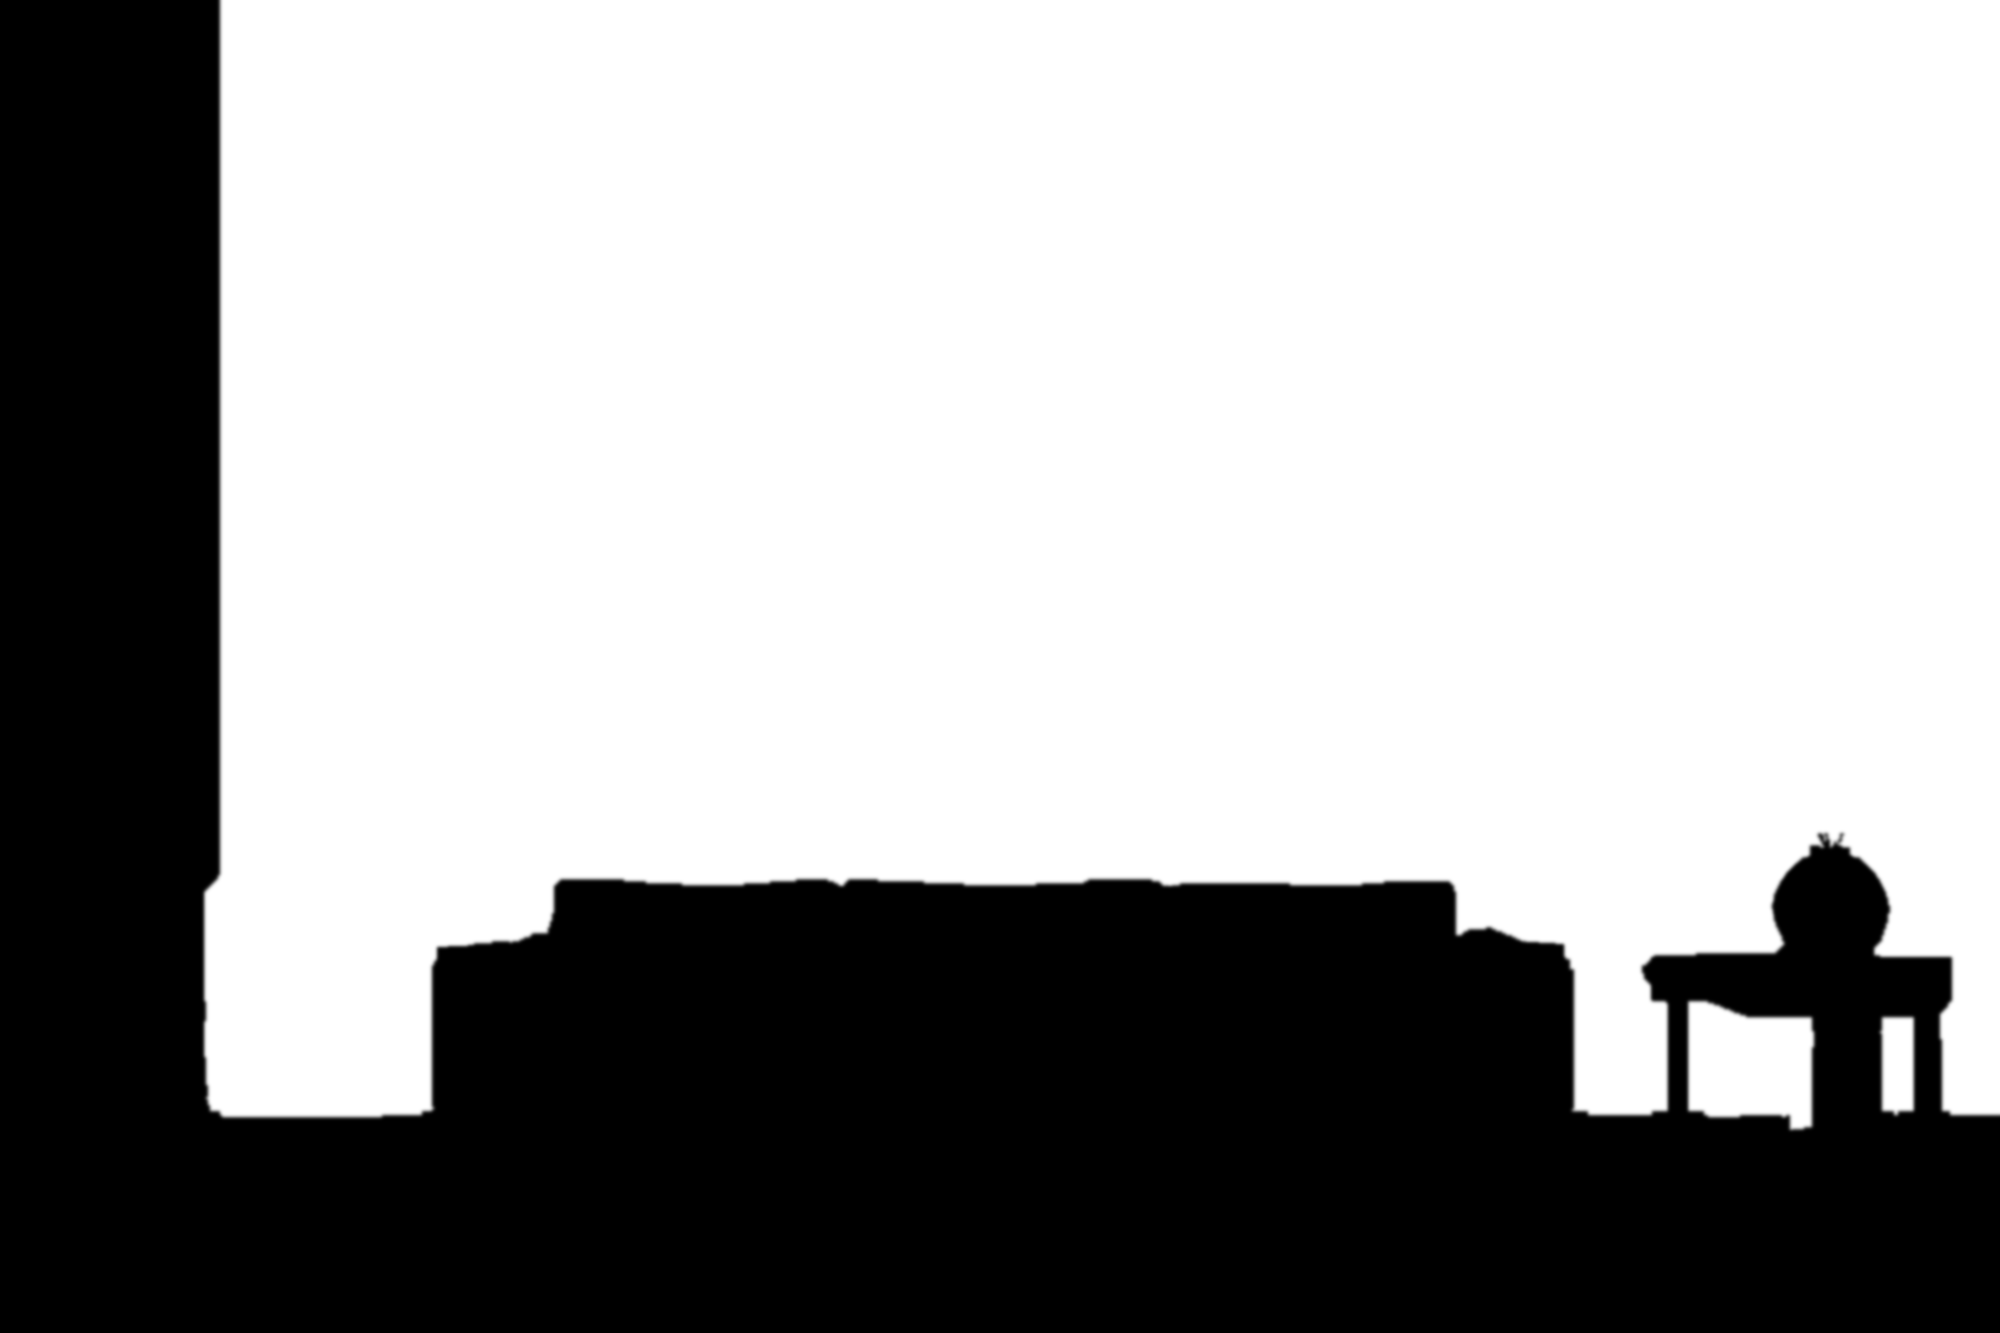
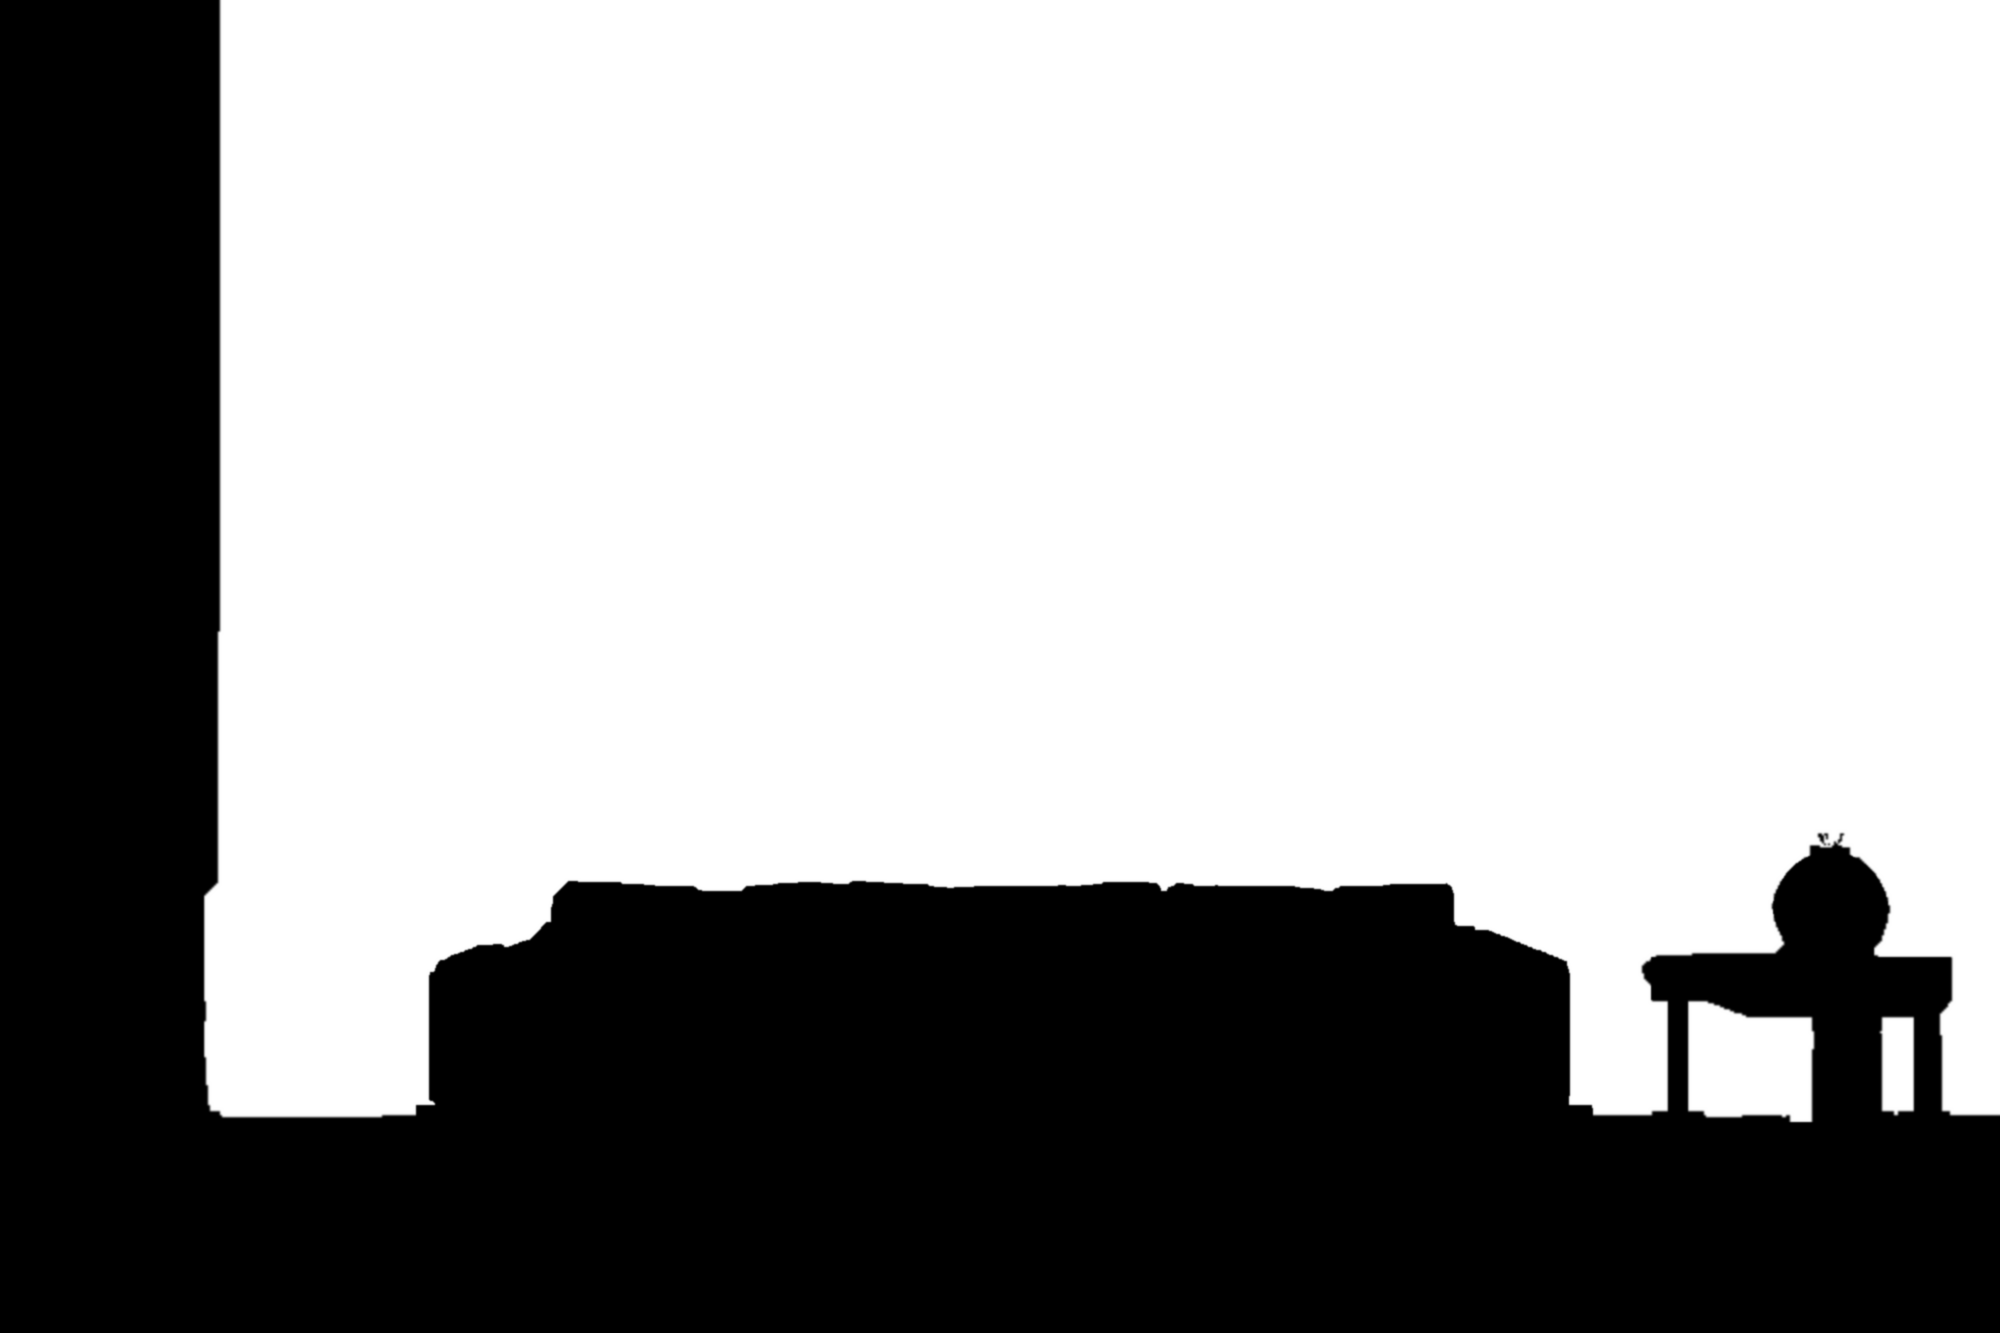
Sofa as its own cut-out layer in front of the repainted wall
Claude-Session: https://claude.ai/code/session_018a31UpSgKUpTcqNgbw5G6D

diff --git a/index.html b/index.html
@@ -509,7 +509,7 @@ var FS_ART=[
 function imgTex(THREE,im,gl2,aniso){var t=new THREE.Texture(im);t.minFilter=gl2?THREE.LinearMipmapLinearFilter:THREE.LinearFilter;t.generateMipmaps=!!gl2;t.anisotropy=aniso;t.wrapS=t.wrapT=THREE.ClampToEdgeWrapping;t.needsUpdate=true;return t}
 function tex(THREE,canvasEl,gl2,aniso){var t=new THREE.CanvasTexture(canvasEl);t.minFilter=gl2?THREE.LinearMipmapLinearFilter:THREE.LinearFilter;t.generateMipmaps=!!gl2;t.anisotropy=aniso;t.wrapS=t.wrapT=THREE.ClampToEdgeWrapping;return t}
 
-var ARTS=[];
+var ARTS=[],SOFA=new Image();
 function artCanvas(i,W,H){var im=ARTS[i],c=mk(W,H),g=c.getContext("2d"),r=Math.max(W/im.width,H/im.height),w=im.width*r,h=im.height*r;
  g.drawImage(im,(W-w)/2,(H-h)/2,w,h);g.globalCompositeOperation="multiply";g.globalAlpha=.55;g.fillStyle=g.createPattern(noiseTile,"repeat");g.fillRect(0,0,W,H);return c}
 function start(img,maskImg){
@@ -522,6 +522,7 @@ function start(img,maskImg){
  var plateTex=imgTex(THREE,img,gl2,an),maskTex=imgTex(THREE,maskImg,false,1);maskTex.minFilter=maskTex.magFilter=THREE.LinearFilter;maskTex.generateMipmaps=false;
  var plateMat=new THREE.ShaderMaterial({vertexShader:VS,fragmentShader:FS_PLATE,uniforms:{tP:{value:plateTex},tM:{value:maskTex},uA:{value:new THREE.Color(PAL[0].wall)},uB:{value:new THREE.Color(PAL[0].wall)},uW:{value:-1},uRef:{value:0.8148},uT:{value:0},uSun:{value:new THREE.Vector2(.3,.7)}},transparent:true,depthTest:false,depthWrite:false});
  var plate=new THREE.Mesh(new THREE.PlaneGeometry(PW,PH),plateMat);plate.position.set(PW/2,PH/2,0);plate.renderOrder=0;scene.add(plate);
+ var sofaTex=imgTex(THREE,SOFA,gl2,an),sofa=new THREE.Mesh(new THREE.PlaneGeometry(SOFA.width,SOFA.height),new THREE.MeshBasicMaterial({map:sofaTex,transparent:true,depthTest:false,depthWrite:false}));sofa.position.set(420+SOFA.width/2,PH-(870+SOFA.height/2),1);sofa.renderOrder=2;scene.add(sofa);
  /* frames */
  var shTex=new THREE.CanvasTexture(shadowTex()),shTex2=new THREE.CanvasTexture(shadowTex2());var SC=2.4,frames=[];
  FR.forEach(function(f,i){
@@ -645,9 +646,9 @@ if(typeof THREE==="undefined"){noGL()}
 else{
  var img=new Image(),mimg=new Image(),loaded=0;img.decoding=mimg.decoding="async";
  for(var ai=0;ai<7;ai++){(function(k){var a=new Image();a.decoding="async";a.onload=ready;a.onerror=function(){noGL()};a.src="img/art/p"+k+".jpg";ARTS[k]=a})(ai)}
- function ready(){if(++loaded<9)return;try{start(img,mimg);if(glOK&&!RM){sp=rawProgress();kick()}}catch(e){console.error(e);noGL()}}
+ function ready(){if(++loaded<10)return;try{start(img,mimg);if(glOK&&!RM){sp=rawProgress();kick()}}catch(e){console.error(e);noGL()}}
  img.onload=mimg.onload=ready;img.onerror=mimg.onerror=function(){noGL()};
- img.src="img/plate.jpg";mimg.src="img/wall-mask.png";
+ SOFA.onload=ready;SOFA.onerror=function(){noGL()};SOFA.src="img/sofa.png";img.src="img/plate.jpg";mimg.src="img/wall-mask.png";
 }
 })();
 </script>
